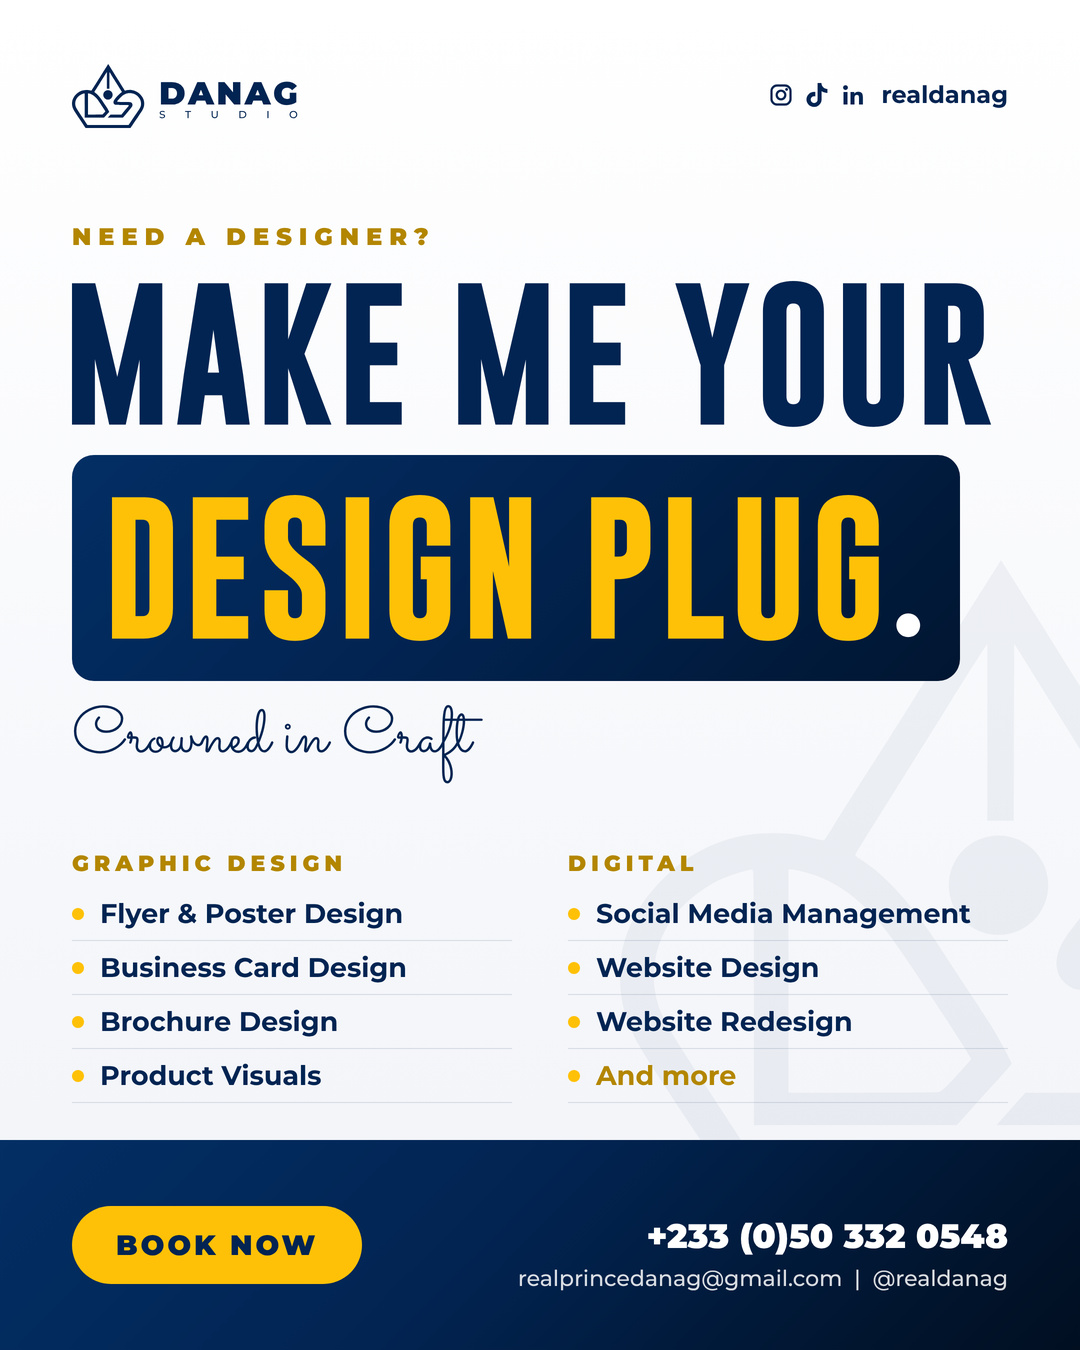
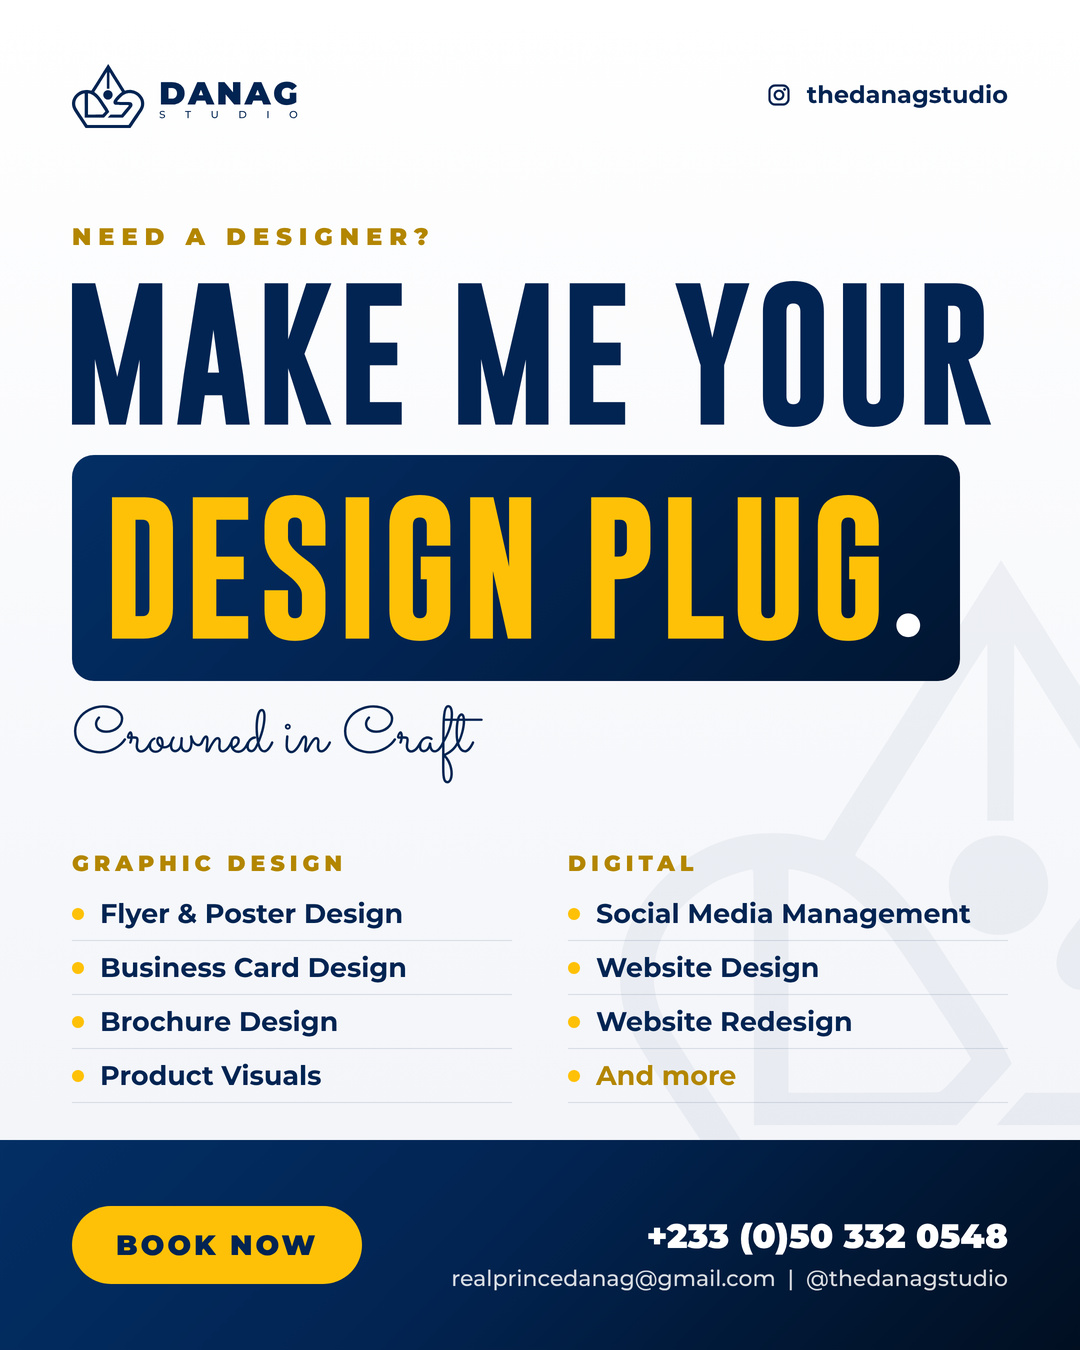
Switch Instagram handle to @thedanagstudio
Claude-Session: https://claude.ai/code/session_016a1VN4sEuNiBsko23wNLQZ

Changed region(s): [[0.4278, 0.9333, 0.9472, 0.9644], [0.7028, 0.0622, 0.9472, 0.0933]]

diff --git a/book-flyer/render_book.py b/book-flyer/render_book.py
@@ -17,7 +17,7 @@ IC = json.load(open(f'{D}/icons.json'))
 
 
 def icons():
-    return ''.join(f'<svg viewBox="0 0 24 24" width="24" height="24" style="color:#022452">{IC[k]}</svg>' for k in ('IG', 'TT', 'LI'))
+    return ''.join(f'<svg viewBox="0 0 24 24" width="24" height="24" style="color:#022452">{IC[k]}</svg>' for k in ('IG',))
 
 
 def line(text, cap, color, dot=False, track=0.02):
@@ -75,7 +75,7 @@ body{{width:1080px;height:1350px;overflow:hidden;position:relative;font-family:M
 </style></head><body>
 <svg class="a" viewBox="252 255 749 664" style="right:-300px;top:560px;width:760px;opacity:.045"><path fill="#022452" fill-rule="evenodd" d="{MK['nodot']}"/><path fill="#022452" d="{MK['dot']}"/></svg>
 <div class="a" style="left:72px;top:64px">{logo}</div>
-<div class="a" style="right:72px;top:80px;display:flex;align-items:center;gap:12px;font-weight:700;font-size:24px">{icons()}<span style="margin-left:4px">realdanag</span></div>
+<div class="a" style="right:72px;top:80px;display:flex;align-items:center;gap:12px;font-weight:700;font-size:24px">{icons()}<span style="margin-left:4px">thedanagstudio</span></div>
 <div class="a" style="left:72px;top:222px"><div class="ey">{eyebrow.upper()}</div>
 <div style="margin-top:30px">{l1svg}</div>
 <div id="box" style="margin-top:28px">{l2svg}</div>
@@ -83,7 +83,7 @@ body{{width:1080px;height:1350px;overflow:hidden;position:relative;font-family:M
 <div class="a" style="left:72px;right:72px;top:850px;display:grid;grid-template-columns:1fr 1fr;column-gap:56px">{svc}</div>
 <div class="a" style="left:0;right:0;bottom:0;height:210px;background:linear-gradient(135deg,#032F65 0%,#022452 45%,#011631 80%,#010F21 100%)"></div>
 <div class="a" style="left:72px;bottom:66px;height:78px;padding:0 44px;border-radius:40px;background:#FFC107;display:flex;align-items:center;font-weight:900;font-size:28px;letter-spacing:3px">BOOK NOW</div>
-<div class="a" style="right:72px;bottom:58px;text-align:right;color:#fff"><div style="font-weight:900;font-size:34px">+233 (0)50 332 0548</div><div style="font-weight:500;font-size:22px;opacity:.85;margin-top:8px">realprincedanag@gmail.com &nbsp;|&nbsp; @realdanag</div></div>
+<div class="a" style="right:72px;bottom:58px;text-align:right;color:#fff"><div style="font-weight:900;font-size:34px">+233 (0)50 332 0548</div><div style="font-weight:500;font-size:22px;opacity:.85;margin-top:8px">realprincedanag@gmail.com &nbsp;|&nbsp; @thedanagstudio</div></div>
 </body></html>"""
 
 

diff --git a/edu-kit/render_edu.py b/edu-kit/render_edu.py
@@ -39,7 +39,7 @@ if spec.get("example_title"):
     S.append(f'''<div class="a" style="left:96px;right:96px;top:200px"><div class="k">REAL EXAMPLE</div><h1 style="margin-top:20px">{spec["example_title"]}<i>.</i></h1></div>
 <div class="a" style="left:96px;right:96px;top:540px;height:520px;border-radius:28px;overflow:hidden;background:linear-gradient(135deg,#032F65,#011631);box-shadow:0 20px 40px rgba(2,36,82,.25);color:#fff;padding:60px">{spec.get("example_html","")}</div>''')
 S.append(f'''<div class="a" style="left:0;right:0;top:250px;display:flex;justify-content:center"><img src="__CLOSELOGO__" style="width:420px"></div>
-<div class="a" style="left:96px;right:96px;top:840px;text-align:center"><h1 style="font-size:80px">Save this for<br>your next design<i>.</i></h1><p style="margin-top:24px">Follow @realdanag for design tips every week.</p></div>''')
+<div class="a" style="left:96px;right:96px;top:840px;text-align:center"><h1 style="font-size:80px">Save this for<br>your next design<i>.</i></h1><p style="margin-top:24px">Follow @thedanagstudio for design tips every week.</p></div>''')
 assert len(S)<=10
 T=len(S)
 with sync_playwright() as pw:
@@ -48,7 +48,7 @@ with sync_playwright() as pw:
         th='n' if i%2 else 'w'; logo=K/f'DANAG-STUDIO-horizontal-{"on-navy" if th=="n" else "on-white"}.svg'
         html=f'''<!DOCTYPE html><html><head><meta charset="utf-8"><style>{CSS}</style></head><body><div class="s {th}">
 <div class="hd"><span><img src="{logo.as_uri()}" style="height:44px;margin-top:-10px"></span><span>DESIGN TIPS · {i:02d}/{T}</span></div>{inner}
-<div class="ft"><span>@realdanag</span><span>{"Save for later" if i==T else "Swipe &rarr;"}</span></div></div></body></html>'''
+<div class="ft"><span>@thedanagstudio</span><span>{"Save for later" if i==T else "Swipe &rarr;"}</span></div></div></body></html>'''
         html=html.replace('__CLOSELOGO__',(K/('DANAG-STUDIO-stacked-on-navy.svg' if th=='n' else 'DANAG-STUDIO-stacked-on-white.svg')).as_uri())
         tmp=out/f'_s{i}.html'; tmp.write_text(html); pg.goto(tmp.as_uri()); pg.wait_for_timeout(600)
         pg.evaluate("document.querySelectorAll('.fit').forEach(e=>{let s=parseFloat(getComputedStyle(e).fontSize);while(e.scrollWidth>888&&s>60){s-=4;e.style.fontSize=s+'px'}})"); pg.wait_for_timeout(100); pg.screenshot(path=str(out/f'{i:02d}.png')); tmp.unlink()

diff --git a/README.md b/README.md
@@ -1,4 +1,4 @@
-# PDG Daily Flyers (@realdanag)
+# DANAG STUDIO Daily Flyers (Instagram @thedanagstudio)
 
 Daily greeting flyers for Prince Danag Graficz, 1080x1350 layout rendered at 2x (2160x2700 HD).
 
@@ -12,5 +12,5 @@ l1 (white bold line), l2 (gold bold line), body (one or two sentence message).
 
 ## Brand rules
 - Colors: navy gradient #032F65 to #010F21, gold #FFC107, white. Fonts: Montserrat, Sacramento script.
-- Footer: clean gold band (option A) with navy @realdanag handle and tagline.
-- Captions: clean and classic, no emojis ever, max 5 hashtags, always include #realdanag.
+- Footer: clean gold band (option A) with Instagram icon + navy @thedanagstudio handle and tagline.
+- Captions: clean and classic, no emojis ever, max 5 hashtags, always include #thedanagstudio (never #realdanag or #PrinceDanagGraficz).
